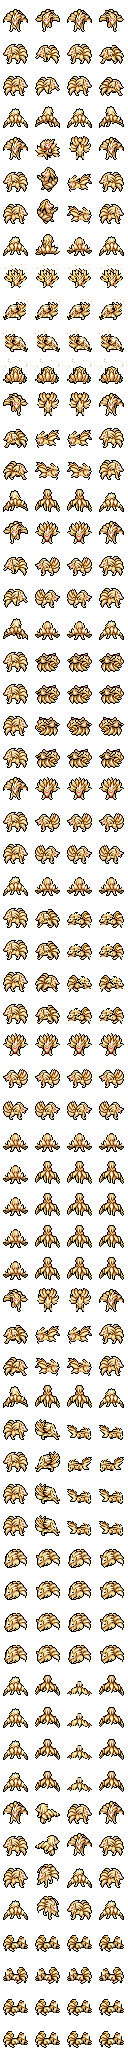
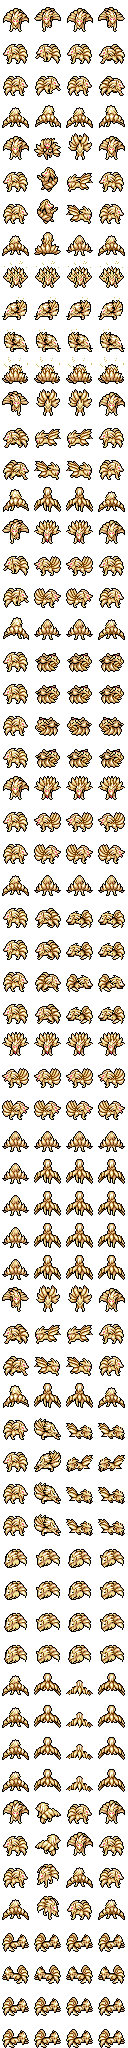
update manifest version

diff --git a/assets/followers/bake_pmd.py b/assets/followers/bake_pmd.py
@@ -52,7 +52,10 @@ FIT_MAX_BY_DEX: dict[int, int] = {
     6: 29,    # Charizard - make a bit bigger
     9: 29,    # Blastoise - make a bit bigger
     19: 20,   # Rattata
+    25: 20,   # Pikachu - make smaller, like Growlithe
+    26: 25,   # Raichu - make the size of Ninetales
     37: 20,   # Vulpix
+    38: 27,   # Ninetales
     58: 20,   # Growlithe
     133: 20,  # Eevee
     134: 20,  # Vaporeon (1.0m would otherwise sit in the 24px band)
